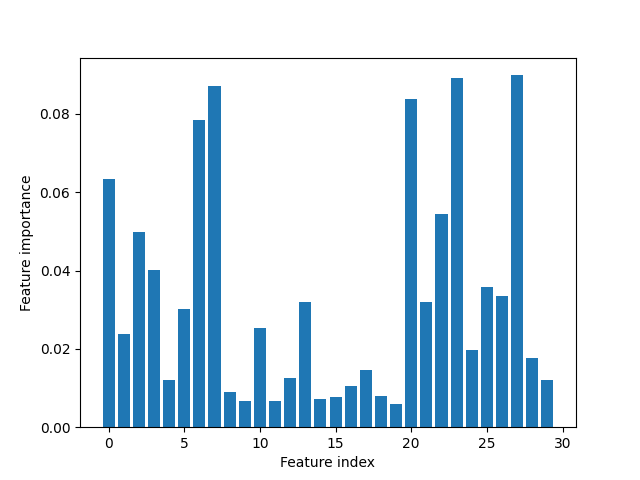
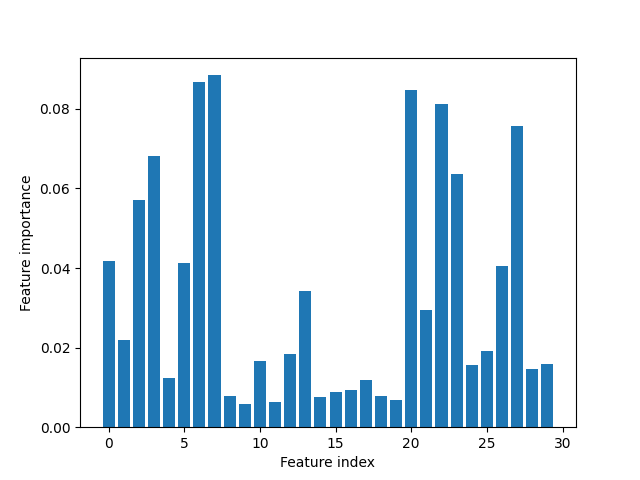
f

diff --git a/09_random_forests/Steinarr9.py b/09_random_forests/Steinarr9.py
@@ -133,7 +133,7 @@ if __name__ == "__main__":
 
 
           Accuracy was {cc.accuracy():.2%}\% , Precision was {cc.precision():.2%}\% , recall was {cc.recall():.2%}\% and cross validation accuracy was {cc.cross_validation_accuracy():.2%}\% . """.replace('[', '{').replace(']', '}'))
-    # cc.feature_importance("09_random_forests/2_2_1.png")
+    cc.feature_importance("09_random_forests/2_2_1.png")
     # quit()
 
 # """
@@ -306,7 +306,7 @@ def _plot_extreme_oob_error(save_as=None, smooth_fun=None):
 if __name__ == "__main__":
     classifier_type = ExtraTreesClassifier()
     cc = CancerClassifier(classifier_type)
-    print("SEction 2")
+    print("SEction 3")
     print(f"{cc.confusion_matrix()=}")
     print(f"{cc.cross_validation_accuracy()=}")
     print(f"{cc.accuracy()=}")
@@ -325,5 +325,5 @@ if __name__ == "__main__":
           Accuracy was {cc.accuracy():.2%} , Precision was {cc.precision():.2%} , recall was {cc.recall():.2%} and cross validation accuracy was {cc.cross_validation_accuracy():.2%} . """.replace('[', '{').replace(']', '}').replace('%', '\%'))
     # cc.feature_importance("09_random_forests/3_1_1.png")
 
-    _plot_extreme_oob_error("09_random_forests/3_2_1.png", smooth_fun=smoother)
+    # _plot_extreme_oob_error("09_random_forests/3_2_1.png", smooth_fun=smoother)
     
